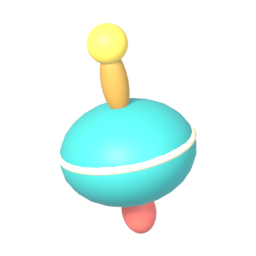
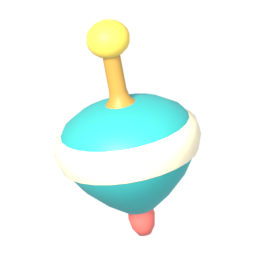
feat(book): toy cells from the remodelled toys, atlas pages re-uploaded (QA v760)
render_book_icons.py now renders the toys from toys-v2.blend. Only the five toy
cells (and their silhouettes) changed in the two atlas pages; BookView.Art points
at the new uploads (112675502113762, 112614959595515).

diff --git a/scripts/deck_art/render_book_icons.py b/scripts/deck_art/render_book_icons.py
@@ -8,7 +8,7 @@ Bear.
 
 Usage (from the repo root):
   blender -b --factory-startup assets/art-source/pets/pet-bear-attachments.blend --python scripts/deck_art/render_book_icons.py -- bear
-  blender -b --factory-startup assets/art-source/toys/toys.blend --python scripts/deck_art/render_book_icons.py -- toys
+  blender -b --factory-startup assets/art-source/toys/toys-v2.blend --python scripts/deck_art/render_book_icons.py -- toys
   (after `bear`, optional ids limit the run: item ids from the manifest and/or `finishes`)
 Outputs: assets/ui/book/raw/<slot>.png (and <slot>-mask.png for wardrobe items)
 """
@@ -169,34 +169,11 @@ ALONE = {"beads": (0, 22, None), "bellcollar": (0, 16, None), "ring": (-72, 6, "
          "heart": (160, 10, None)}
 # Icon exaggeration: pieces too small to read at 48 px are drawn bigger (thumbnail only).
 ITEM_SCALE = {"blep": 2.2}
-# Toys built from the game's sphere primitives (PetToyGeometry builders, slice D toy pool 2). They are
-# mirrored here in memory for their book cell, not saved in toys.blend: (name, size, steps, colour) with
-# steps a chain of ("r", radians about the toy's facing axis) and ("t", x, y, z) in the game's axes
-# (Y up, +Z facing), exactly as the Luau CFrame chain reads.
-PRIMITIVE_TOYS = {
-    # Tennis ball (QA v735 H2). Replaces the modelled "Ball" in toys.blend for its book cell.
-    "Ball": [
-        ("FeltBall", (.24, .24, .24), [], "#D0E83A"),
-        ("SeamArcL", (.1944, .05, .1944), [("r", .2), ("ry", .3), ("r", math.pi / 2), ("t", 0, .075, 0)], "#FCFBEF"),
-        ("SeamArcR", (.1944, .05, .1944), [("r", .2), ("ry", -.3), ("r", -math.pi / 2), ("t", 0, .075, 0)], "#FCFBEF"),
-    ],
-    "Wobble_Top": [
-        ("TealBody", (.20, .15, .20), [("r", .18)], "#3FB7B0"),
-        ("CreamEquator", (.205, .04, .205), [("r", .18), ("t", 0, .01, 0)], "#FFF0C9"),
-        ("CoralFoot", (.05, .07, .05), [("r", .18), ("t", 0, -.09, 0)], "#EF786B"),
-        ("BrassStem", (.04, .10, .04), [("r", .18), ("t", 0, .11, 0)], "#C69A45"),
-        ("CitrineKnob", (.06, .06, .06), [("r", .18), ("t", 0, .17, 0)], "#F6D759"),
-    ],
-    "Squeaky_Carrot": [
-        ("CarrotTop", (.085, .11, .085), [("r", -.62), ("t", 0, .075, 0)], "#FF8A3C"),
-        ("CarrotMiddle", (.07, .10, .07), [("r", -.62)], "#FF8A3C"),
-        ("CarrotTip", (.05, .09, .05), [("r", -.62), ("t", 0, -.075, 0)], "#FF8A3C"),
-        ("LeafProng-1", (.03, .08, .03), [("r", -.62), ("t", -.018, .128, 0), ("r", .5), ("t", 0, .03, 0)], "#58B368"),
-        ("LeafProng0", (.03, .08, .03), [("r", -.62), ("t", 0, .128, 0), ("t", 0, .03, 0)], "#58B368"),
-        ("LeafProng1", (.03, .08, .03), [("r", -.62), ("t", .018, .128, 0), ("r", -.5), ("t", 0, .03, 0)], "#58B368"),
-        ("SqueakerDot", (.03, .03, .03), [("r", -.62), ("t", 0, .02, .034)], "#FFF0C9"),
-    ],
-}
+# Toys v2 (QA v760): every toy is modelled in toys-v2.blend (scripts/build_pet_toys.py), one Empty
+# per toy. This table stays for a toy that is ever built from sphere primitives again: (name, size,
+# steps, colour) with steps a chain of ("r", radians about the toy's facing axis), ("ry", about its up
+# axis) and ("t", x, y, z) in the game's axes (Y up, +Z facing), exactly as the Luau CFrame chain reads.
+PRIMITIVE_TOYS = {}
 REPLACES = {"Eyes": ["PetBear__EyeL", "PetBear__EyeR"], "Mouth": ["PetBear__Mouth"], "Tail": ["PetBear__Tail"]}
 
 
@@ -342,9 +319,9 @@ def toys():
         extent = max(mx.x - mn.x, mx.y - mn.y, mx.z - mn.z)
         for o in objs:
             o.hide_render = False
-        yaw = {"Bone": -28, "Ball": -14, "Sparkler": -30, "Wobble_Top": -12, "Squeaky_Carrot": -10}.get(gid, -25)
-        roll = {"Sparkler": -38, "Bone": 20}.get(gid, 0)        # long toys lie on the diagonal
-        fit = {"Sparkler": 1.0, "Bone": 1.05, "Wobble_Top": 1.12, "Squeaky_Carrot": 1.08}.get(gid, 1.28)
+        yaw = {"Bone": -18, "Ball": -14, "Sparkler": -16, "Wobble_Top": -12, "Squeaky_Carrot": -10, "Pocket_Deck": -14}.get(gid, -25)
+        roll = {"Sparkler": -30, "Bone": 24}.get(gid, 0)        # long toys lie on the diagonal
+        fit = {"Sparkler": 1.0, "Bone": 1.0, "Wobble_Top": 1.12, "Squeaky_Carrot": 1.08, "Pocket_Deck": 1.08}.get(gid, 1.28)
         frame(cam, centre, extent * fit, yaw, 18, roll)
         render(scene, os.path.join(RAW, "toy-" + gid.lower() + ".png"))
         for o in objs:

diff --git a/TODO.md b/TODO.md
@@ -4,6 +4,7 @@ Updated November 14, 2026. Published private builds are recorded in [PLAY-BUILD.
 
 ## Now working on
 
+- [ ] **v760 QA toys v2, "this does not look like a bone" (2026-11-16, in source, unpublished, Edit only; not run in Play):** all six personal toys are real meshes, modelled procedurally in Blender (`scripts/build_pet_toys.py` -> `assets/art-source/toys/toys-v2.blend`, `pet-toys.fbx`, `pet-toys-manifest.json`), uploaded as Model asset 134846528553129 (mesh ids in `pet-toys-meshids.json`) and cloned from the new `ReplicatedStorage.PetToyAssets` pack (`assets/toys/PetToyAssets.rbxmx` via `scripts/build_pet_toy_assets.py`; new node in `default.project.json`, so `rojo serve` may need a restart). Bone = one cream cartoon dog bone (shaft, two knobs each end); Ball = sphere felt + one true seam curve; Sparkler = grip, ferrule and wire, spiky spark burst round the Neon tip; Wobble Top, Squeaky Carrot and Pocket Deck remodelled. Toy ids, `Toys.Play`, `Toys.Hold`, part names used by the play clips (`FeltBall`, `GlowTip`, `DeckScreen`) and the reveal/preview paths are unchanged. Book toy cells re-rendered and both atlas pages re-uploaded (`BookView.Art`: 112675502113762, 112614959595515, moderation was still Reviewing). Specs updated: `PetPersonalPlay`, `TennisBallToy` (`PetHeldToy` unchanged); coordinator to run them. Before/after renders: `artifacts/qa-2026-11-16b-v760/toys/`. Follow-up: `RewardItemArt`'s 2D fallback still draws the old bone and ball shapes (only used when the geometry module is missing); `HatchDisplayItem.lowest` treats mesh parts as boxes, so a tilted toy can sit a hair above its shadow.
 - [ ] **v751 QA P1 to P5 (2026-11-16, in source, unpublished, run in Studio Play at phone-size fixtures; awaiting Spencer's phone QA):** P1 the phone Pocket Deck is one aspect-locked shell (`DeckScreen.Fit`: 2.3:1, 8 px clear of every edge and of the top bar, centred; DeckFit enforces it at eight phone sizes and the real `TopbarInset`), P2 no in-panel egg pop before the full-screen hatch stage, P3 the results difficulty button cycles Easy, Medium, Hard, Easy, P4 the results Star is a coin with rim shading and an eased turn, P5 the results wallet chip is the 3D WalletStar. Status, costs and captures: `artifacts/qa-2026-11-16-v751/QA-TRIAGE.md` and `verify/`. Not on a real phone; translations unaffected (no new strings).
 - [ ] **v751 QA G1, faster and more exciting egg drop (2026-11-16, compiled and run in Studio Play at a 750x402 phone fixture, place saved v760, unpublished; awaiting Spencer's phone feel check):** the round clock runs 1.3x (`BoardConfig.Pace`, same simulation), drop cooldown 0.35 to 0.2 s, next ball ready after 0.46 s, settle 4 to 2.3 s; tier-scaled screen kick (4 to 16 px), bigger merge burst and squash, chain counter pop with one note per chain step, fill-line heartbeat. Payouts and saves unchanged. Numbers, the specs re-pinned and the ten Play tests to run: `artifacts/qa-2026-11-16-v751/GAME-FEEL-PLAN.md`. Play verification (server 58/58, client 134/149 with the 15 long-standing failures, Medium round 33.0 s): see "Play verification" in the plan. Not checked: the kick and the sounds in the live game (Studio had no window focus), and no one has listened to the chain pitch. Needs: Spencer's phone feel check.
 - [x] **v735 final pre-publish pass (2026-11-15): done, place saved v750, not published, translations not synced.** Price pass (triage P): Wardrobe 25/50/100 (`TIERS`, manifest `items`, `BearRigDefinition`, `WearableCatalog.TierPrice`; recolours follow their base), faceplates 30/60/120 (`DeckThemes`, `faceplates.json`), ball themes 30/60/60/160 (`BallThemes`); eggs unchanged. Specs re-pinned: WearablePurchase, FaceplatePurchase, BallThemePurchase, BallThemes, BookClaim, DeckBoot, DeckStyle, PetAttachments, WearableVariants, WeeklyShelf; UICopy spec sample gained `title`, `quest`, `capacity` (the spec was stale against H5/W2 copy). Studio Edit: W1 texture ids present, all 96 solid WorldAssets MeshParts still PreciseConvexDecomposition. Play: server 56/56, client 133/147 (13 long-standing, plus JellyMaterialPreview, a fixture that is not a spec); python world collision 12/12. Captures in `artifacts/qa-2026-11-15-v735/verify-final/` (Studio viewport 1649x734; the tennis-ball reveal is an 844x390 fixture host). Not verified: the live Toy Egg hatch sound (the hatch clock does not run while Studio is unfocused; HatchRarityCue and HatchRarityAudio specs pass), a real tap on a top pill (the notice card was opened through `NotificationRail.activate`), and true 844x390 device emulation.
